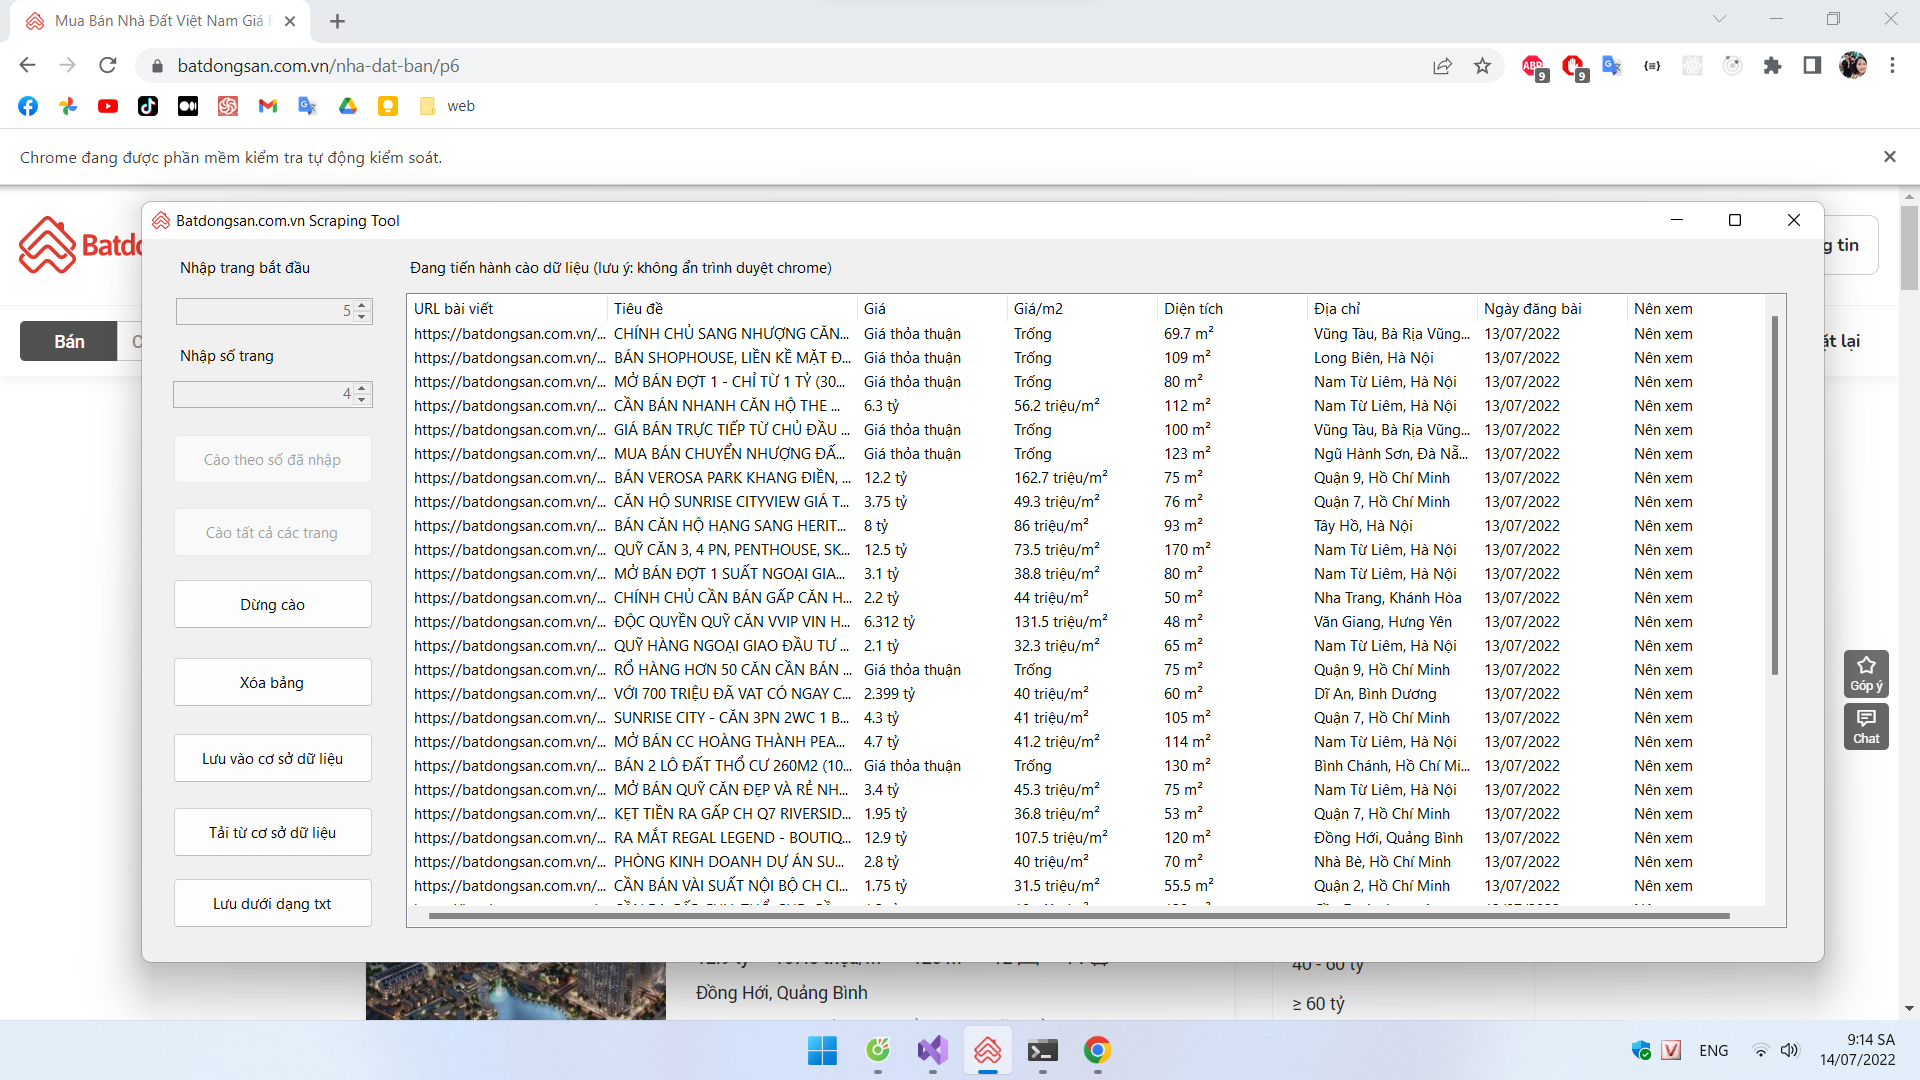
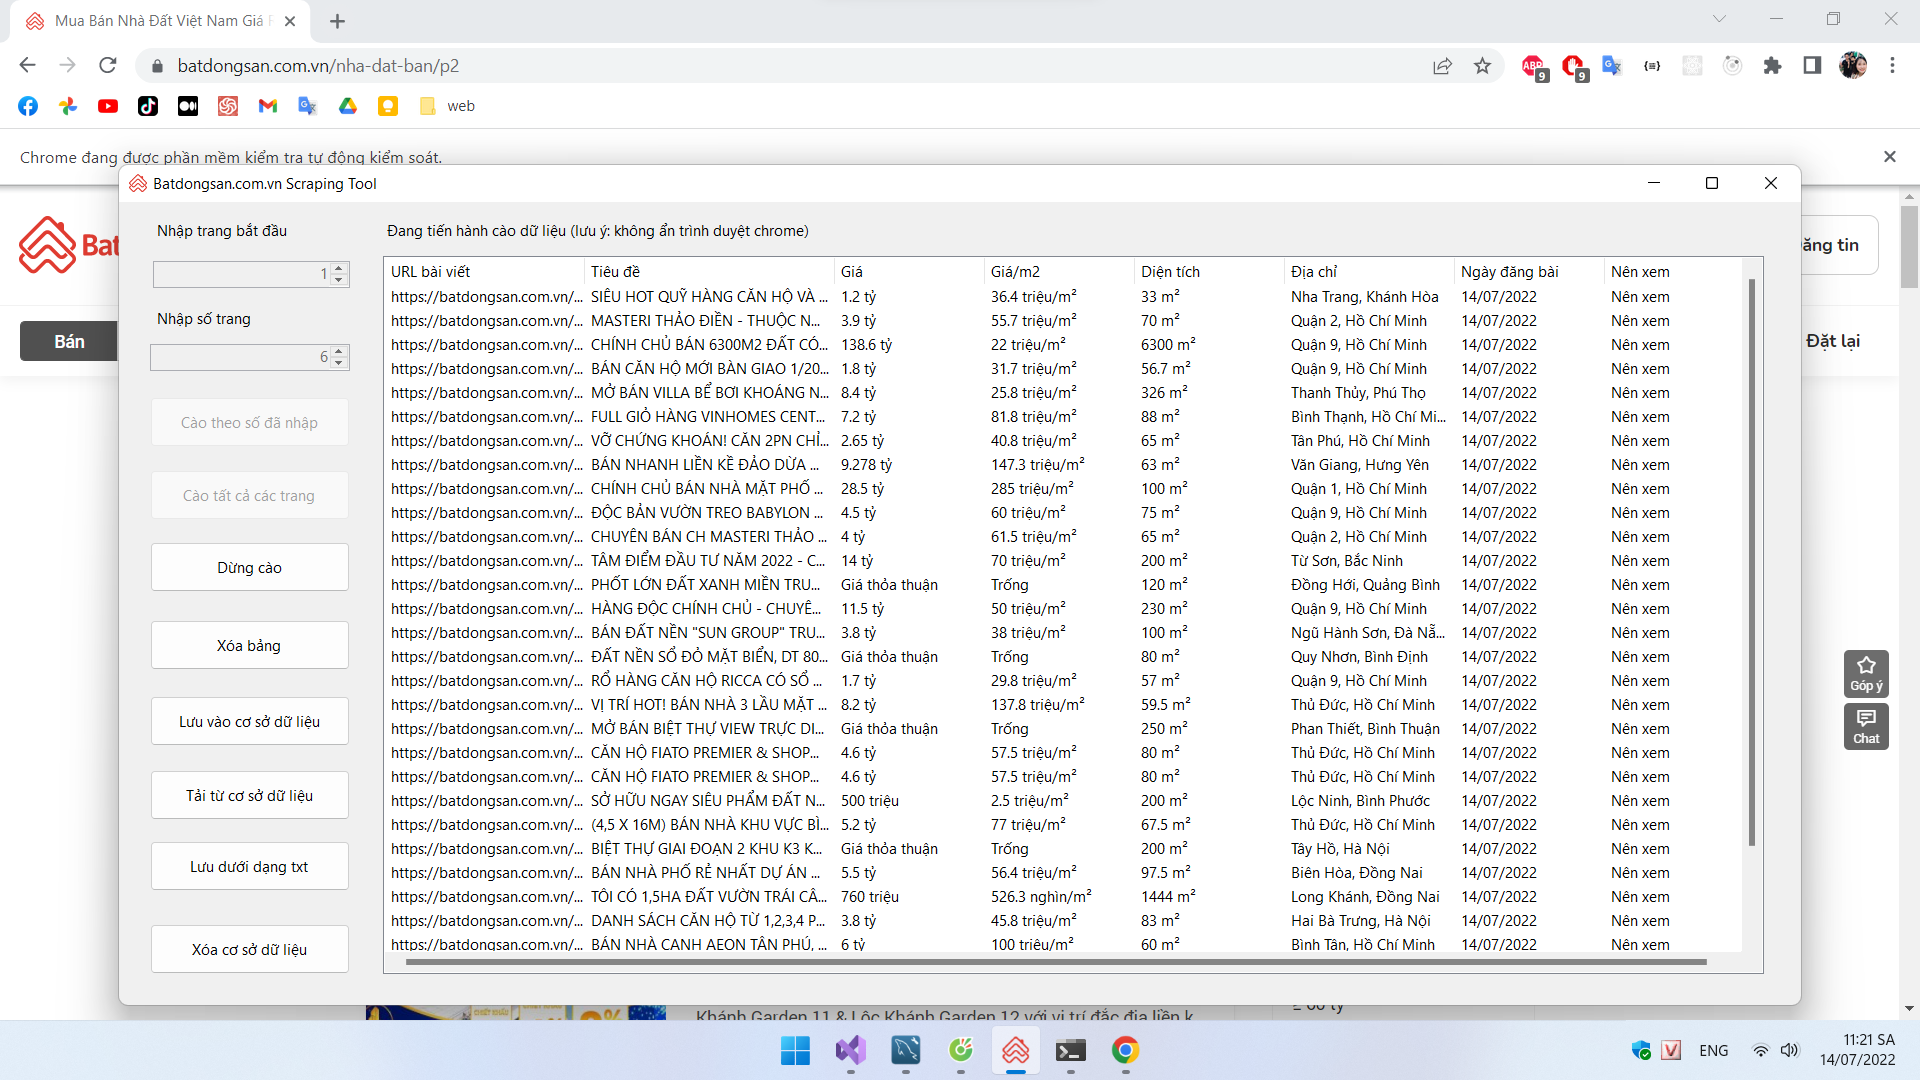
tạo tính năng xóa những thứ đang có trong cơ sở dữ liệu

Changed region(s): [[0.0312, 0.1222, 0.9688, 1.0], [0.0938, 0.3667, 0.1562, 0.3972], [0.9375, 0.2139, 0.9688, 0.2444]]

diff --git a/Form1.Designer.cs b/Form1.Designer.cs
@@ -50,6 +50,7 @@
             this.label3 = new System.Windows.Forms.Label();
             this.startPageNum = new System.Windows.Forms.NumericUpDown();
             this.button7 = new System.Windows.Forms.Button();
+            this.button8 = new System.Windows.Forms.Button();
             ((System.ComponentModel.ISupportInitialize)(this.pageRangeNum)).BeginInit();
             ((System.ComponentModel.ISupportInitialize)(this.startPageNum)).BeginInit();
             this.SuspendLayout();
@@ -86,7 +87,7 @@
             this.columnHeader8});
             this.listView1.Location = new System.Drawing.Point(264, 54);
             this.listView1.Name = "listView1";
-            this.listView1.Size = new System.Drawing.Size(1381, 635);
+            this.listView1.Size = new System.Drawing.Size(1381, 718);
             this.listView1.TabIndex = 4;
             this.listView1.UseCompatibleStateImageBehavior = false;
             this.listView1.View = System.Windows.Forms.View.Details;
@@ -259,11 +260,21 @@
             this.button7.UseVisualStyleBackColor = true;
             this.button7.Click += new System.EventHandler(this.button7_Click);
             // 
+            // button8
+            // 
+            this.button8.Location = new System.Drawing.Point(31, 722);
+            this.button8.Name = "button8";
+            this.button8.Size = new System.Drawing.Size(200, 50);
+            this.button8.TabIndex = 0;
+            this.button8.Text = "Xóa cơ sở dữ liệu";
+            this.button8.UseVisualStyleBackColor = true;
+            this.button8.Click += new System.EventHandler(this.button8_Click);
+            // 
             // Form1
             // 
             this.AutoScaleDimensions = new System.Drawing.SizeF(8F, 20F);
             this.AutoScaleMode = System.Windows.Forms.AutoScaleMode.Font;
-            this.ClientSize = new System.Drawing.Size(1682, 723);
+            this.ClientSize = new System.Drawing.Size(1682, 803);
             this.Controls.Add(this.startPageNum);
             this.Controls.Add(this.pageRangeNum);
             this.Controls.Add(this.label3);
@@ -271,6 +282,7 @@
             this.Controls.Add(this.listView1);
             this.Controls.Add(this.label2);
             this.Controls.Add(this.button3);
+            this.Controls.Add(this.button8);
             this.Controls.Add(this.button5);
             this.Controls.Add(this.button4);
             this.Controls.Add(this.button2);
@@ -278,8 +290,8 @@
             this.Controls.Add(this.button7);
             this.Controls.Add(this.button1);
             this.Icon = ((System.Drawing.Icon)(resources.GetObject("$this.Icon")));
-            this.MaximumSize = new System.Drawing.Size(1700, 770);
-            this.MinimumSize = new System.Drawing.Size(1700, 770);
+            this.MaximumSize = new System.Drawing.Size(1700, 850);
+            this.MinimumSize = new System.Drawing.Size(1700, 850);
             this.Name = "Form1";
             this.StartPosition = System.Windows.Forms.FormStartPosition.CenterScreen;
             this.Text = "Batdongsan.com.vn Scraping Tool";
@@ -313,5 +325,6 @@
         private Label label3;
         private NumericUpDown startPageNum;
         private Button button7;
+        private Button button8;
     }
 }

diff --git a/Form1.cs b/Form1.cs
@@ -317,5 +317,17 @@ namespace web_scraping_csharp
             pageRangeNum.Enabled = true;
         }
 
+        private void button8_Click(object sender, EventArgs e)
+        {
+            Thread buttonEight = new Thread(deleteAllDB);
+            buttonEight.IsBackground = true;
+            buttonEight.Start();
+        }
+        void deleteAllDB()
+        {
+            listView1.Items.Clear();
+            new nhabandatController().queryDeleteAll();
+            MessageBox.Show("Đã xóa toàn bộ bản ghi có trong cơ sở dữ liệu");
+        }
     }
 }

diff --git a/Controllers/nhabandatController.cs b/Controllers/nhabandatController.cs
@@ -56,5 +56,15 @@ namespace web_scraping_csharp.Controllers
             }
             return result;
         }
+        public void queryDeleteAll()
+        {
+
+            string sqlDeleteAllNhabandat = $"DELETE FROM nhabandat";
+           
+            using (IDbConnection db = new MySqlConnection("server=localhost;port=5060;user=root;password=140300;database=batdongsan"))
+            {
+                db.Query<nhabandat>(sqlDeleteAllNhabandat);
+            }
+        }
     }
 }
